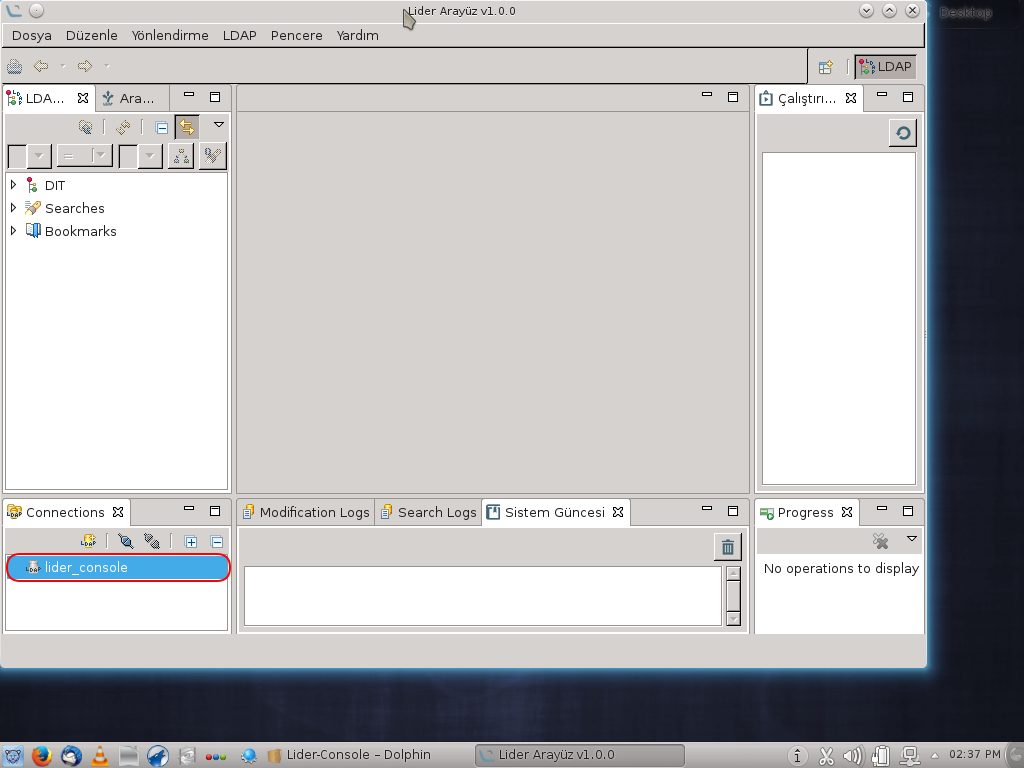
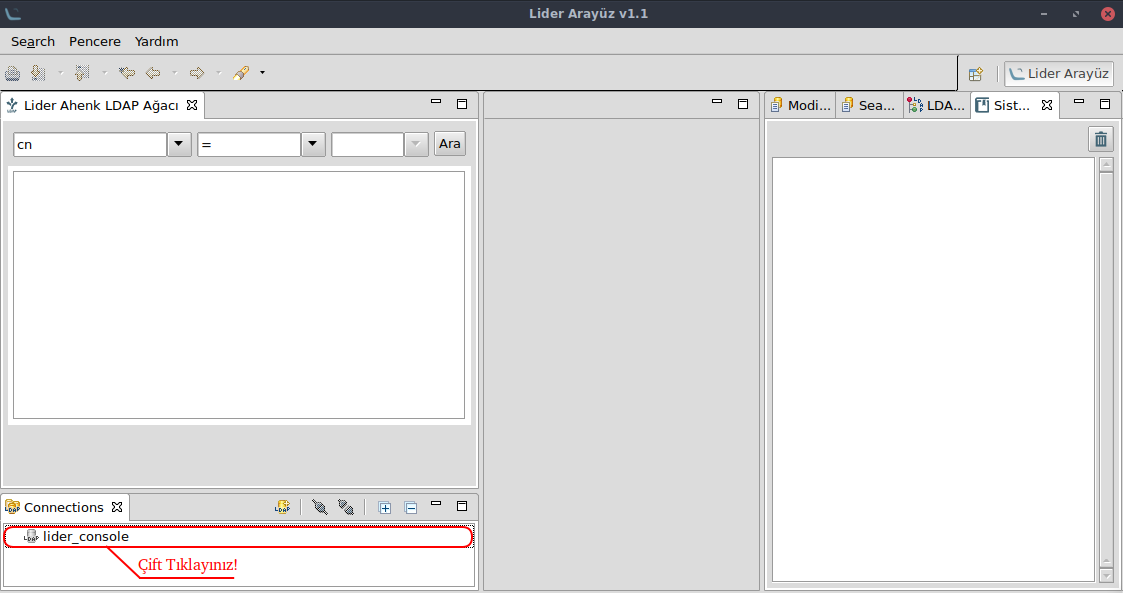
Update .md file

diff --git a/1.1.0/virtual-images/virtual-ova.md b/1.1.0/virtual-images/virtual-ova.md
@@ -3,7 +3,7 @@ Bu Virtualbox dosyası aşağıdaki bilgileri içermektedir. **Virtualbox > Dosy
 
 Ova ağ ayarları **"Köprü Bağdaştırıcısı"** şeklinde ayarlanmıştır. Sistem çalıştığında DHCP'den otomatik ip alacaktır. Statik bir ip olması gerekli olduğu için bu ip adresinin ova içerisindeki sisteme tanımlanması gereklidir. Bu işlem için https://wiki.debian.org/NetworkConfiguration adresinden bilgi alabilirsiniz.
 
-**İşletim Sistemi :** Pardus Kurumsal 5
+**İşletim Sistemi :** Pardus 17.2
 
 **Kullanıcı Adı:** Pardus
 
@@ -13,14 +13,14 @@ Ova ağ ayarları **"Köprü Bağdaştırıcısı"** şeklinde ayarlanmıştır.
 **Donanım**
 2 GB Ram
 1 CPU
-18 GB Disk
+28 GB Disk
 
 
 **OpenLDAP(Slapd)**
 
 | Kullanıcı	| Şifre |
 | ------ | ------ |
-|  root  |  ssifre  |
+|  admin  |  ssifre  |
 
 
 **Veritabanı(MariaDB)**
@@ -34,14 +34,13 @@ Ova ağ ayarları **"Köprü Bağdaştırıcısı"** şeklinde ayarlanmıştır.
 | Kullanıcı	| Şifre |
 | ------ | ------ |
 | admin | easifre |
-| lider_console | elcsifre |
 | lider_sunucu | elssifre |
 
 **Lider Console**
 
 | Kullanıcı| Şifre |
 | ------ | ------ |
-| admin | asifre |
+| admin | ssifre |
 | lider_console | lcsifre |
 | config | csifre |
 
@@ -59,7 +58,7 @@ ip_adresi db.liderahenk.org
 ip_adresi im.liderahenk.org 
 ```
 
-**/opt/lider-distro-1.0.0-SNAPSHOT/etc/tr.org.liderahenk.cfg** dosyasında 
+**/opt/lider-distro-1.1/etc/tr.org.liderahenk.cfg** dosyasında 
 ```sh
 xmpp.host = ip_adresi
 ```
@@ -70,7 +69,7 @@ file.server.host = ip_adresi
 tanımlayarak karaf servisi;
 
 ```sh
-cd /opt/lider-distro-1.0.0-SNAPSHOT/bin/
+cd /opt/lider-distro-1.1/bin/
 ./karaf
 ./start
 ```
@@ -79,37 +78,23 @@ komutları ile başlatılmalıdır.
 
 ## Ahenk Kurulumu
 
-> Not: Ahenk kurulacak bilgisayarda **"openssh-server"** paketinin kurulu olması gerekmektedir. Bu işlem için;
-```sh
-sudo apt-get install openssh-server -y
-```
-> komutunun konsolda çalıştırılması yeterlidir.
+Ahenk kurulumu için http://docs.liderahenk.org/lider-ahenk-docs/1.1.0/ahenk/ahenk/#ahenk-kayt adresini ziyaret edebilirsiniz. Kurulum için;
 
-&nbsp;&nbsp;&nbsp;&nbsp;&nbsp;&nbsp;Masaüstündeki **lider-ahenk-installer** dizini altında  **lider-ahenk-installer** simgesine tıklayarak kuruluma başlayabilirsiniz.
+    host = ip_adresi
+    receiverjid = lider_sunucu
+    receiverresource = Smack
+    servicename = im.liderahenk.org
 
-![Ahenk Kurulum-1](virtual-ova-images/ahenk-kur.png)
-
-![Ahenk Kurulum-7](virtual-ova-images/ahenk-kur-versiyon-kontrol.png)
-
-![Ahenk Kurulum-3](virtual-ova-images/ahenk-kur-ip.png)
-
-![Ahenk Kurulum-4](virtual-ova-images/ahenk-kur-kullanici-adi.png)
-
-![Ahenk Kurulum-2](virtual-ova-images/ahenk-kur-bilgiler.png)
-
-![Ahenk Kurulum-5](virtual-ova-images/ahenk-kur-secim.png)
-
-![Ahenk Kurulum-6](virtual-ova-images/ahenk-kur-son.png)
-
+ahenk makinesinde yukarıdaki bilgileri **/etc/ahenk/ahenk.conf** dosyasına tanımlanmalıdır.
 
 &nbsp;&nbsp;&nbsp;&nbsp;&nbsp;&nbsp;Bu işlemlerden sonra ahenk bilgisayarda kullanıcı  oturumu kapatılarak yeniden giriş yapılır. **LiderAhenk Kullanıcı Sözleşmesi** onaylanarak devam edilir.
 
 ## Lider Console Örnek Bağlantı
 
-&nbsp;&nbsp;&nbsp;&nbsp;&nbsp;&nbsp; Masaüstündeki **Lider Console** dizini altından **lider-console** simgesine tıklanır;
+Uygulamalar menüsünde veya uçbirimde **lider-console** yazarak LiderArayüz'e erişebilirsiniz. Açılan ekranda **lider-console** bağlantısına tıklanır;
 
 ![Lider Console Örnek Bağlantı-1](virtual-ova-images/lider_console.png)
 
-&nbsp;&nbsp;&nbsp;&nbsp;&nbsp;&nbsp;**lider_console** bağlantısına tıklayarak **Ahenkler** altında eklenen ahenk bilgisayarlarını görebilirsiniz.
+oturum açıldığında (Ekranında sağında) **Sistem Güncesi**'inde **Bağlantı başarıyla açıldı** mesajı gelmelidir. Aksi taktirde bağlantı ve konfigürasyonları kontrol ediniz. Bağlantı başarılı ise **Ahenkler** altında eklenen ahenk bilgisayarlarını görebilirsiniz.
 
 ![Lider Console Örnek Bağlantı-2](virtual-ova-images/lider_console-2.png)
